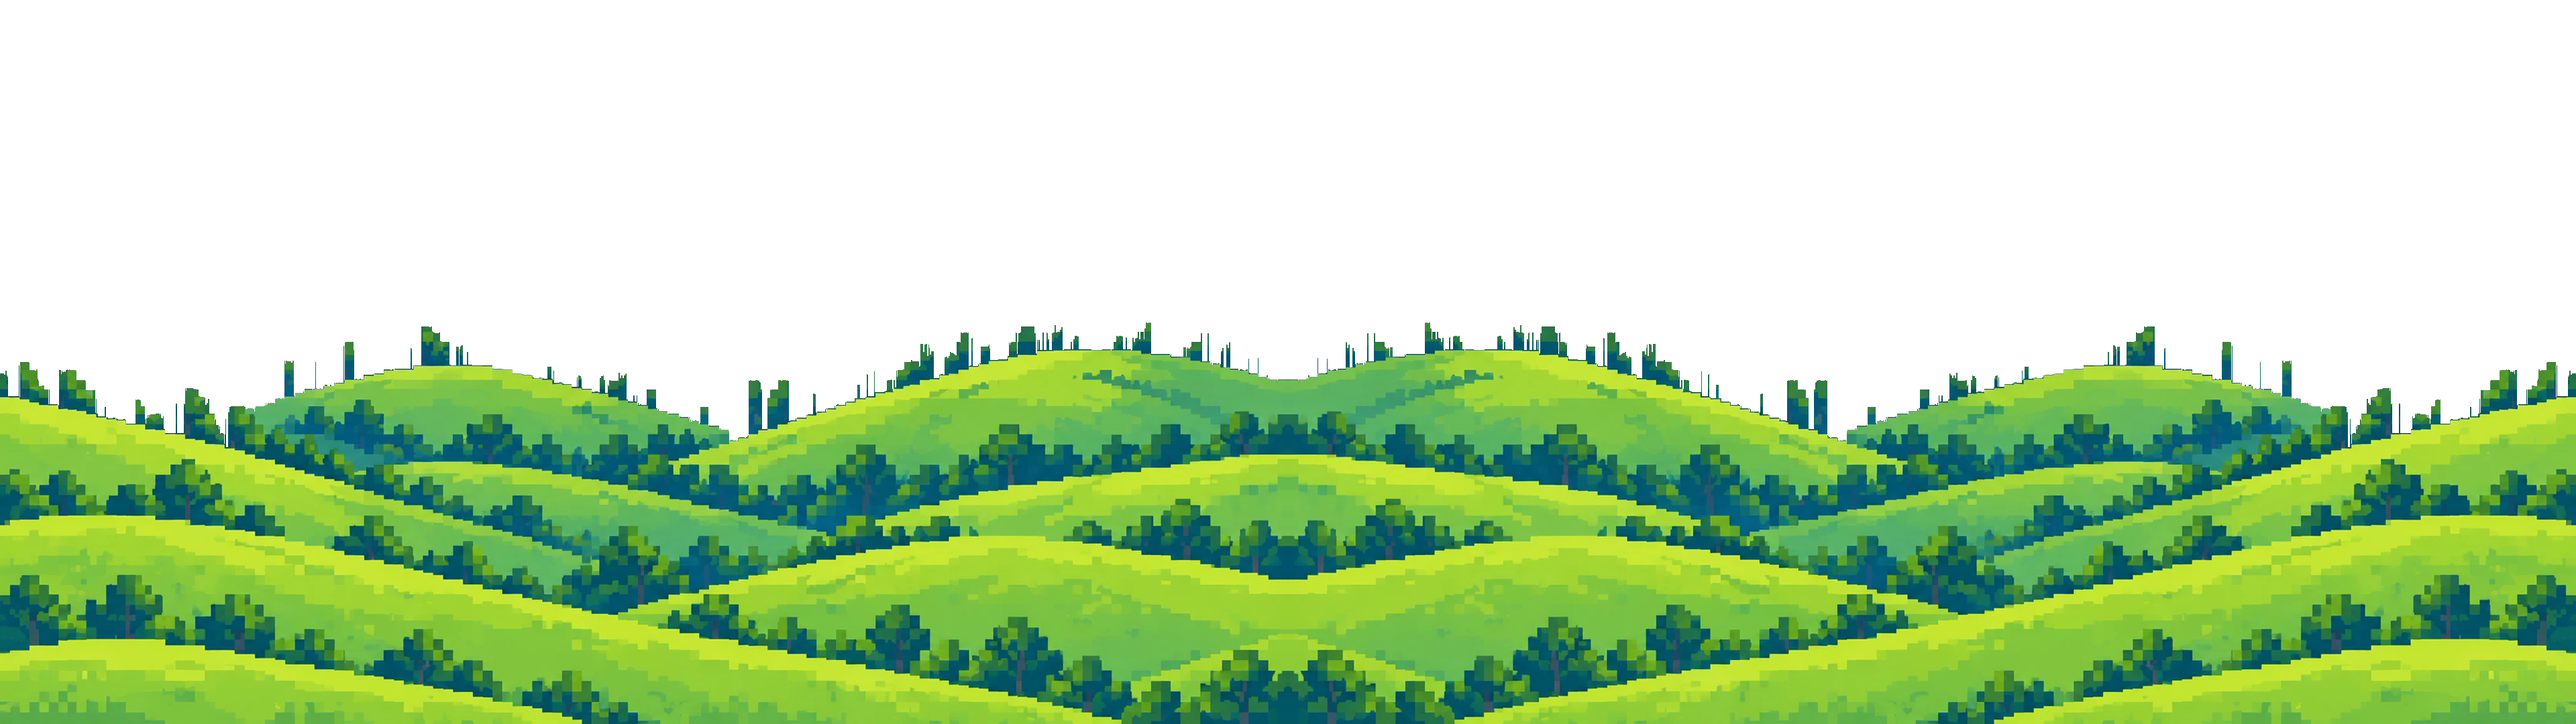
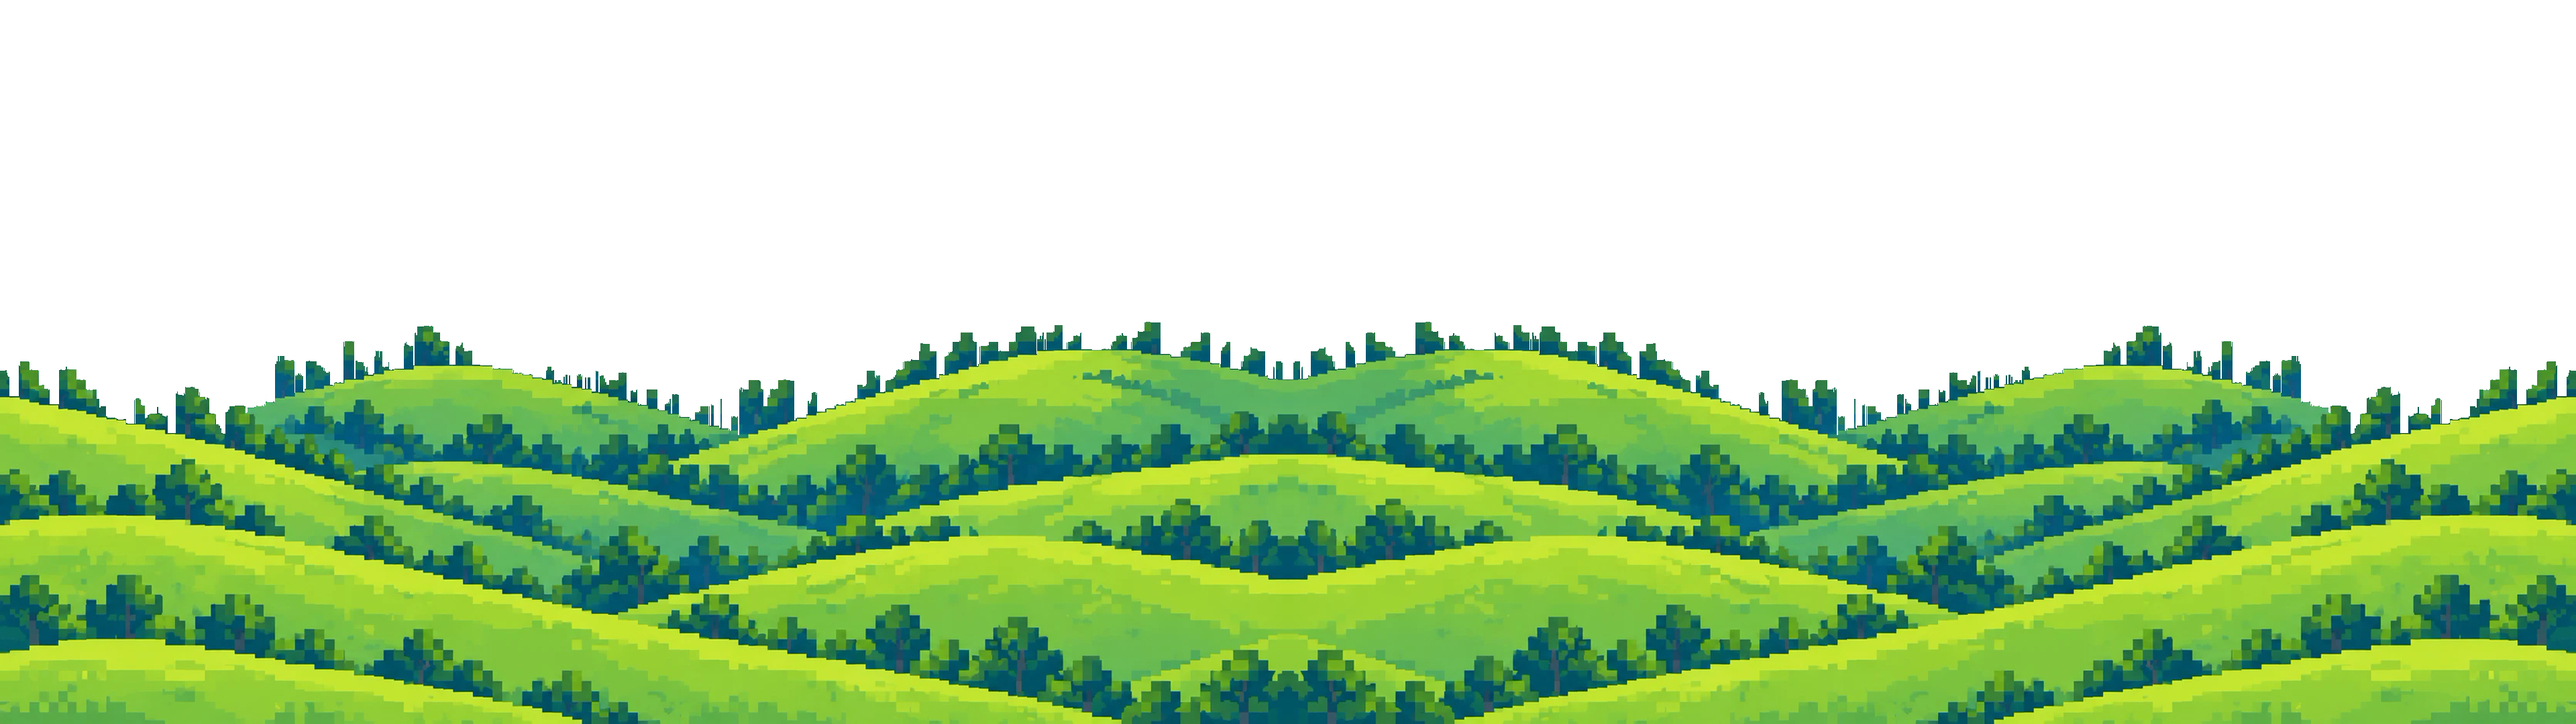
Parallax Background

diff --git a/tools/ui_asset_generator/split_background.py b/tools/ui_asset_generator/split_background.py
@@ -2,9 +2,9 @@
 """
 Split background.png into 3 parallax layers:
 1. bg_sky.png (Sky + Clouds)
-2. bg_mountains.png (Distant blue/teal mountain range)
-3. bg_hills.png (Closer green rolling hills and trees)
-Also ensures seamless horizontal wrapping by creating a 3840px mirrored strip.
+2. bg_mountains.png (Distant blue/teal mountain range naturally extended all the way down to row 1080)
+3. bg_hills.png (Rolling green hills with 100% full, unchunked trees on crests and valleys)
+Also ensures seamless horizontal wrapping by creating a 3840px mirrored strip for each.
 """
 
 import os
@@ -12,8 +12,10 @@ from collections import deque
 import numpy as np
 from PIL import Image
 
-ASSETS_DIR = os.path.abspath(os.path.join(os.path.dirname(__file__), "..", "..", "assets"))
+SCRIPT_DIR = os.path.dirname(os.path.abspath(__file__))
+ASSETS_DIR = os.path.abspath(os.path.join(SCRIPT_DIR, "..", "..", "assets"))
 BG_PATH = os.path.join(ASSETS_DIR, "background.png")
+EXTENSION_PATH = os.path.join(SCRIPT_DIR, "clean_initial_mountains.jpg")
 
 def split_background():
     img = Image.open(BG_PATH).convert("RGBA")
@@ -21,20 +23,16 @@ def split_background():
     arr = np.array(img)
 
     # 1. Connected Component Flood-Fill from (0, 0) to find the exact contiguous Sky region.
-    # Sky contains blue gradients and clouds, while mountain pixels stop the flood fill.
     visited = np.zeros((h, w), dtype=bool)
     queue = deque([(0, 0)])
     visited[0, 0] = True
 
     def is_sky_or_cloud(y, x):
         r, g, b, _ = [int(v) for v in arr[y, x]]
-        # Open sky tones:
         if b >= 235 and g >= 165 and r <= 95:
             return True
-        # Cloud whites / pale blues:
         if r >= 100 and g >= 140 and b >= 190:
             return True
-        # Lighter sky blue tones:
         if b >= 240 and g >= 164:
             return True
         return False
@@ -54,22 +52,34 @@ def split_background():
         col = np.where(visited[:, x])[0]
         mountain_horizon[x] = col.max() + 1 if len(col) > 0 else 450
 
-    # 2. Detect Front Hills boundary (where bright green rolling hills & tree rows start)
-    # Front rolling hills have either bright lime grass (G >= 165, R >= 85, G > B + 40)
-    # or dark green ridge trees (G >= 60, B <= 70, G > B + 20).
-    hills_horizon = np.zeros(w, dtype=int)
+    # 2. Exact Tree and Hill Top Boundary
+    # Ensures every single tree crown, trunk, branch, and leaf on the hill ridge
+    # is 100% captured in the front hills layer with ZERO chunking.
+    def is_hill_or_tree(r, g, b):
+        # Foliage (deep green, olive, lime)
+        if g > b + 14 and b < 90:
+            return True
+        if g > 135 and b < 115:
+            return True
+        # Tree trunks and branches (brown)
+        if r > 45 and g > 35 and b < 65 and r > b + 8:
+            return True
+        # Dark foliage shadow
+        if g > 38 and b < 55 and r < 55 and g >= b + 8:
+            return True
+        return False
+
+    tree_top = np.zeros(w, dtype=int)
     for x in range(w):
         found = False
-        for y in range(480, h):
+        for y in range(400, h):
             r, g, b, _ = [int(v) for v in arr[y, x]]
-            is_front_grass = (g >= 165 and r >= 85 and g > b + 40)
-            is_front_tree = (g >= 60 and b <= 70 and g > b + 20)
-            if is_front_grass or is_front_tree:
-                hills_horizon[x] = y
+            if is_hill_or_tree(r, g, b):
+                tree_top[x] = y
                 found = True
                 break
         if not found:
-            hills_horizon[x] = 650
+            tree_top[x] = 700
 
     # 3. Create Layer 1: Sky
     # Full sky and clouds, extending natural sky gradient down to row 1080
@@ -79,34 +89,41 @@ def split_background():
             if visited[y, x]:
                 sky_arr[y, x] = arr[y, x]
             else:
-                # Natural sky gradient continuation below mountains
                 t = max(0.0, min(1.0, (y - 380) / 400.0))
                 r = int(np.clip(70 + (210 - 70) * t, 0, 255))
                 g = int(np.clip(174 + (238 - 174) * t, 0, 255))
                 b = int(np.clip(252 + (230 - 252) * t, 0, 255))
                 sky_arr[y, x] = [r, g, b, 255]
 
-    # 4. Create Layer 2: Mountains
-    # Transparent above mountain_horizon[x].
-    # Below hills_horizon[x], extend mountain tones so parallax motion never exposes holes.
-    mountains_arr = np.zeros((h, w, 4), dtype=np.uint8)
-    for x in range(w):
-        top_y = mountain_horizon[x]
-        hill_y = max(top_y, hills_horizon[x])
-        for y in range(top_y, h):
-            if y < hill_y:
-                mountains_arr[y, x] = arr[y, x]
-            else:
-                # Smoothly extend mountain tone downwards
-                sample_y = max(top_y, hill_y - 1 - (y - hill_y) % 20)
-                mountains_arr[y, x] = arr[sample_y, x]
+    # 4. Create Layer 2: Middle Mountains (Extended Downwards)
+    # Uses clean_initial_mountains.jpg which strictly extends ONLY the authentic
+    # rolling teal-green and soft blue pixel-art mountains down to row 1080.
+    # Completely eliminates alien mountain types, grey crags, and barcode streaks.
+    # Sky region above mountain ridge is 100% transparent.
+    ai_ext = Image.open(EXTENSION_PATH).resize((w, h), Image.Resampling.LANCZOS)
+    arr_ext = np.array(ai_ext.convert("RGB"))
 
-    # 5. Create Layer 3: Hills
-    # Transparent above hills_horizon[x], original pixels below
+    mountains_arr = np.zeros((h, w, 4), dtype=np.uint8)
+
+    # Detect the top edge of the mountain in each column (mountain pixels have R <= 110)
+    mtn_edge = np.zeros(w, dtype=int)
+    for x in range(w):
+        for y in range(h):
+            if arr_ext[y, x, 0] <= 110 and (arr_ext[y, x, 1] > 100 or arr_ext[y, x, 2] > 100):
+                mtn_edge[x] = y
+                break
+
+    for x in range(w):
+        top_y = mtn_edge[x]
+        for y in range(top_y, h):
+            mountains_arr[y, x] = [arr_ext[y, x, 0], arr_ext[y, x, 1], arr_ext[y, x, 2], 255]
+
+    # 5. Create Layer 3: Rolling Hills (Full tree lines fully intact, not chunked)
+    # Transparent above tree crowns; solid 100% of the hill terrain and trees below.
     hills_arr = np.zeros((h, w, 4), dtype=np.uint8)
     for x in range(w):
-        hill_y = hills_horizon[x]
-        for y in range(hill_y, h):
+        cut_y = tree_top[x]
+        for y in range(cut_y, h):
             hills_arr[y, x] = arr[y, x]
 
     # Helper to create mirrored 2x strip for perfect seamless wrapping
